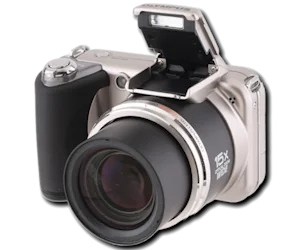
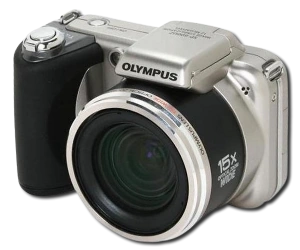
Update photography page.

diff --git a/photography.html b/photography.html
@@ -22,25 +22,28 @@
 							<p>On this page you will find an index of all my previous pictures sorted by month and year from newest to oldest. If you just want to see the newest pictures you can click on the most recent month.</p>
 						</div>
 						<div id="page-thumbnail">
-							<img src="/images/sonyNEX3.webp" alt="sonyNEX3.webp" width="300" height="250"/>
+							<img src="/images/sonyA900.webp" alt="sonyA900.webp" width="300" height="250"/>
 						</div>
 					</div>
 					<h1>About</h1>
 					<div class="cnt-box">
 						<div class="cnt-info">
-							<p><img class="image-right" src="/images/olympusSP600UZbgn.webp" alt="olympusSP600UZbgn.webp" width="200" height="140"/>I started taking pictures on a cheap Olympus SP-600UZ (shown to the top right) that I got from Goodwill for $20. It's a pretty basic point and shoot but it took pretty nice pictures and something about it really clicked with me.</p>
-							<p>Not long after I discovered my parent's old Nikon F60 film camera and bought some film and shot on that. I still shoot film sometimes but now I mostly use a Minolta Maxxum 70 and sometimes a Konica U Mini point and shoot for film.</p>
-							<p>Then I picked up a Sony A100 DSLR from eBay for cheap. I used that for about a year and then upgraded to a Sony NEX 3 (pictured above in the header), however I frequently switch between that and the A100 because I have more lenses for it. I have a few lenses that I use with the NEX:</p>
+							<p><img class="image-right" src="/images/sonyNEX3bgn.webp" alt="sonyNEX3bgn.webp" width="200" height="140"/>I started taking pictures on a cheap Olympus SP-600UZ that I got from Goodwill for $20. It was a fairly basic point and shoot camera but it took pretty nice pictures and something about it really clicked with me.</p>
+							<p>Not long after I discovered my parent's old Nikon F60 film camera and bought some film and shot on that. I still shoot film sometimes but now I mostly use a Minolta Maxxum 70 and sometimes a Konica U Mini point and shoot for film photos.</p>
+							<p>Then I picked up a Sony A100 DSLR (shown to the lower right) from eBay for cheap. That was my main camera for about a year and then I bought the much smaller Sony NEX 3 (shown to the upper right) mirrorless camera, and for a while I frequently switched between the NEX 3 and the A100 because I have more lenses for the Sony/Minolta A mount. I only have three lenses that I use with the NEX 3:</p>
 							<ul>
 								<li>Sony 18-55mm f/3.5-5.6 OSS Zoom Lens</li>
-								<li>Sony 55-210mm f/4.5-6.3 OSS Zoom Lens</li>
+								<li>Sony 55-210mm f/4.5-6.3 OSS Telephoto Zoom Lens</li>
+								<li>Canon 50mm f/1.8 Prime Lens (with adapter)</li>
 							</ul>
-							<p><img class="image-right" src="/images/sonyA100bgn.webp" alt="sonyA100bgn.webp" width="200" height="140"/>I still use the A100 (shown to the bottom right) quite a lot. It has a CCD sensor and I feel it produces more rich colors than the NEX. I also just have more higher quality lenses for it as this camera’s lens mount is older and thus the lenses are cheaper. Here is what I use with it:</p>
+							<p><img class="image-right" src="/images/sonyA100bgn.webp" alt="sonyA100bgn.webp" width="200" height="140"/>Occasionally I still use the A100; it has a CCD sensor and I feel it produces more rich colors than the NEX. After two years of swapping between the NEX 3 and A100 I upgraded to a Sony A900 (shown in the header), a full frame DSLR still using the A mount. Here is a list of my A mount lens collection, these lenses work on my A100, A900, and Minolta film camera:</p>
 							<ul>
+								<li>Carl Zeiss 135mm f/1.8 Telephoto Prime Lens</li>
 								<li>Sigma 28-80mm f/3.5 Macro Zoom Lens</li>
 								<li>Minolta 28-100mm f/3.5 Zoom Lens</li>
 								<li>Minolta 50mm f/1.7 Prime Lens</li>
-								<li>Tamron 70-300mm Telephoto/Macro Zoom Lens</li>
+								<li>Tamron 28-300mm f/3.5 Telephoto Zoom Lens</li>
+								<li>Tamron 70-300mm f/4 Telephoto/Macro Zoom Lens</li>
 								<li>Tokina AT-X 400mm f/5.6 Telephoto Prime Lens</li>
 							</ul>
 							<p>If you decide to redistribute my photos online please provide credit. The photos on this site are all watermarked and are lossy compressed JPEG files, they are not suitable nor intended for reuse.</p>
